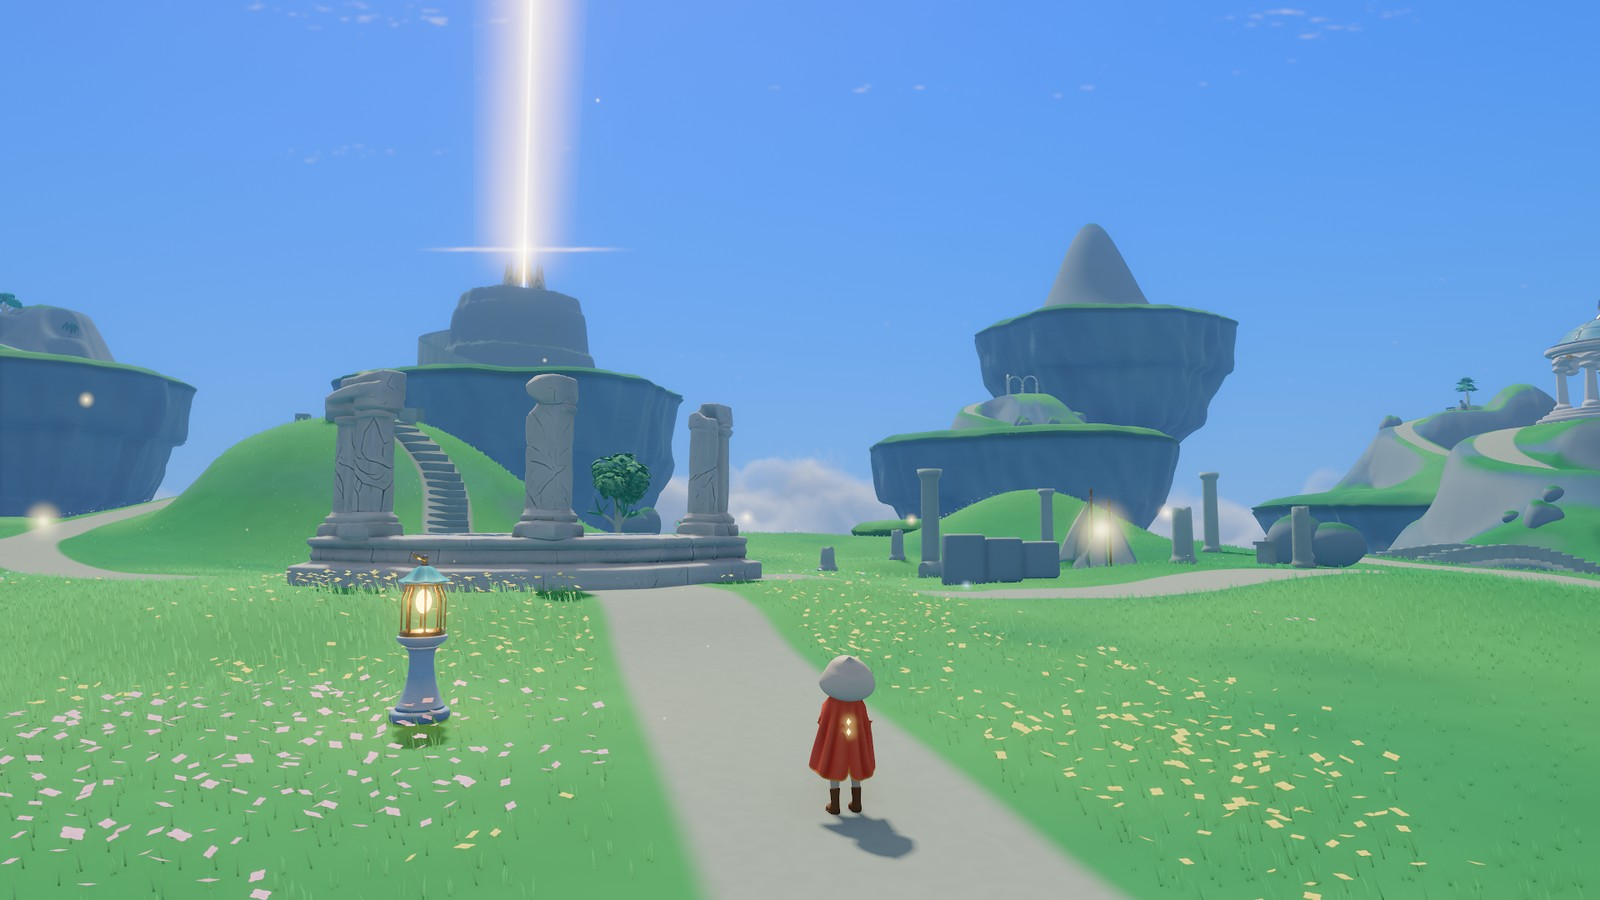
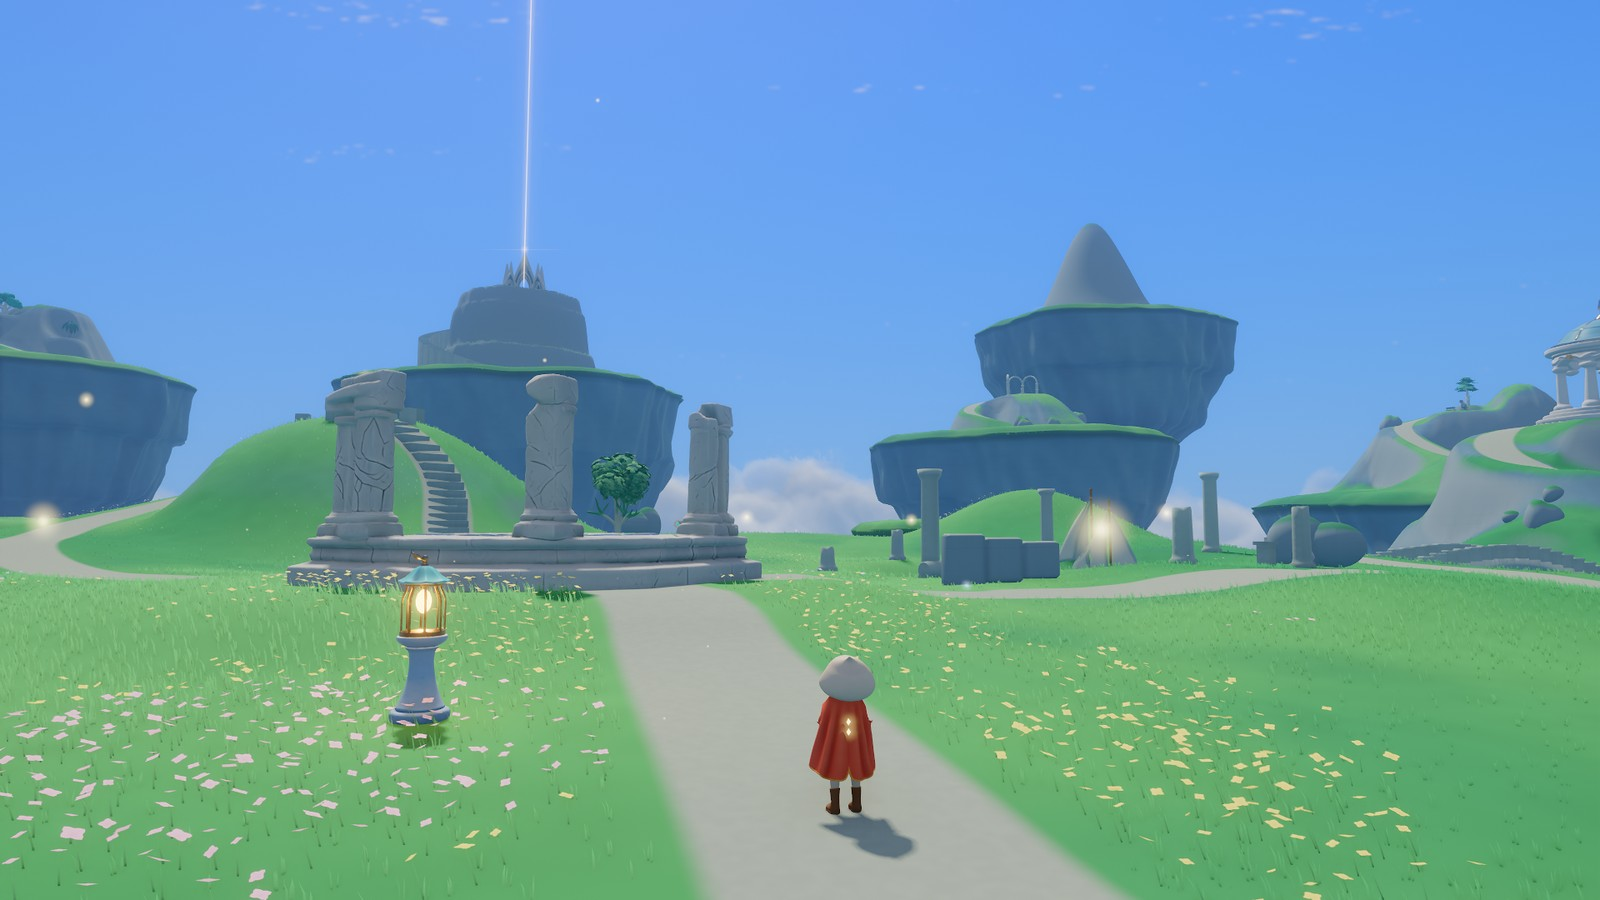
Remove rejected demo gallery and refresh Cloudsong example

Changed region(s): [[0.2812, 0.0, 0.375, 0.3422]]

diff --git a/docs/images/CREDITS.md b/docs/images/CREDITS.md
@@ -2,30 +2,13 @@
 
 | File | Source | Rights |
 | --- | --- | --- |
-| `particles.jpg` | Quench Demo 0.12.1, Particles section: light streams, sparks and fireflies | Original project capture, MIT; procedural scene assets |
-| `weather.jpg` | Quench Demo 0.12.1, Weather section: towering clouds at sunset | Original project capture, MIT; procedural scene |
-| `raytracing.jpg` | Quench Demo 0.12.1, Ray tracing section: cut-out shadows, glass and reflective spheres | Original project capture, MIT; [demo asset credits](../../examples/demo/assets/CREDITS.md) |
 | `cloudsong.jpg` | [Cloudsong](https://github.com/m-brtn/cloudsong), version 0.1.1: starting meadow and ruins | Reproduced with the project owner's permission for this showcase; [game artwork credits](https://github.com/m-brtn/cloudsong/blob/main/CREDITS.md) |
 
 Captured on 2026-11-09 on an Apple M4 Pro Mac, native Metal, offscreen at 1920 x 1080 with the interface hidden.
-The demo uses the regular renderer, including real-time ray tracing in its Ray tracing section. The images are
-resized to 1600 x 900 with Lanczos filtering and saved as optimized JPEGs at quality 90, with no colour retouching
-or compositing. The Cloudsong file is identical to the image in the game's README. Its generated character and
-architecture are game artwork, separate from the demo's procedural content; the linked credits retain their terms.
-
-## Reproduce the demo captures
-
-From the repository root, after building the Release demo:
-
-```sh
-build/release/examples/demo/quench-demo --gpu-backend metal --frame-size 1920x1080 \
-  --audio-device null --user-dir build/showcase \
-  --script examples/demo/scenarios/showcase.txt
-```
-
-The scenario writes `weather.png`, `particles.png` and `raytracing.png` under `build/showcase/` and exits.
-It freezes the weather clock, restarts the particle streams and waits for the ray tracing scene to load.
-It is a gallery capture scenario, independent of the regression tests and their golden images.
+The image uses Cloudsong's Beautiful picture preset and frozen 11:30 daylight. It is resized to 1600 x 900 with
+Lanczos filtering and saved as an optimized JPEG at quality 90, with no colour retouching or compositing.
+The file is identical to the image in the game's README. Its generated character and architecture are game
+artwork; the linked credits retain their terms.
 
 The game's [capture scenario and settings](https://github.com/m-brtn/cloudsong/blob/main/docs/images/CREDITS.md)
 reproduce the Cloudsong view. Captures document the Mac renderer, not the appearance of an iPhone display.

diff --git a/devlog/2026-11-09.md b/devlog/2026-11-09.md
@@ -154,3 +154,22 @@ version bump, new package, phone run or performance claim.
 
 Cloudsong's corresponding hero-image update and capture checks are recorded in its
 [game devlog](https://github.com/m-brtn/cloudsong/blob/main/devlog/2026-11-09.md#readme-showcase--1341).
+
+## README gallery follow-up
+
+The user rejected all three demo images from the preceding entry. Removed the particles, sunset-cloud and
+ray-tracing JPEGs, their README markup and the now-unused showcase-only scenario. The tunnel remains absent.
+Reviewed additional actual captures of materials, postprocessing, clouds at several heights and a close view of
+the particle campfire; none was selected as a replacement for the front page. These procedural diagnostic scenes
+still need better art direction. The README now presents the single linked Cloudsong example without the
+rejected technical gallery; no new engine-demo beauty shots are claimed.
+
+Refreshed the shared Cloudsong image after its temple-beacon correction, using its unchanged capture camera and
+normal Beautiful preset. Native Metal, offscreen on the M4 Pro Mac at 1920x1080, then resized to 1600x900 and JPEG
+compressed only; 162,364 bytes. Inspected the final image. SHA-256:
[1 lines of base64/hex data omitted]
+
+Only README documentation, gallery assets and the unused photo-tour scenario change here. No engine runtime,
+shader, API, version or regression-capture change. The preceding quick demo gate (91/91) covers the same engine
+runtime; it was not repeated for image/document removal. The game has its own runtime change and verification,
+recorded in its devlog. No new package or device run in this follow-up.

diff --git a/README.md b/README.md
@@ -22,19 +22,6 @@ look and listen.
 - **The agent sees its own game.** Scripted scenarios run the game without a window, take screenshots the agent looks
   at and compares with reference images, and measure frame times.
 
-<p align="center">
-  <img src="docs/images/particles.jpg" alt="Blue and pink ribbons of light above a field of fireflies and a glowing campfire" width="100%">
-</p>
-<p align="center">
-  <img src="docs/images/weather.jpg" alt="Golden sunset light along the edges of towering volumetric clouds" width="49%">
-  <img src="docs/images/raytracing.jpg" alt="Cut-out fence shadows, tinted glass and a row of reflective gold spheres" width="49%">
-</p>
-
-<p align="center"><sub>
-  Captured in the engine demo: particles and light trails · volumetric clouds at sunset · ray-traced shadows,
-  reflections and bounced light. These demo scenes are procedural.
-</sub></p>
-
 ## Made with Quench
 
 [**Cloudsong**](https://github.com/m-brtn/cloudsong) is a calm exploration game among floating islands. Follow
